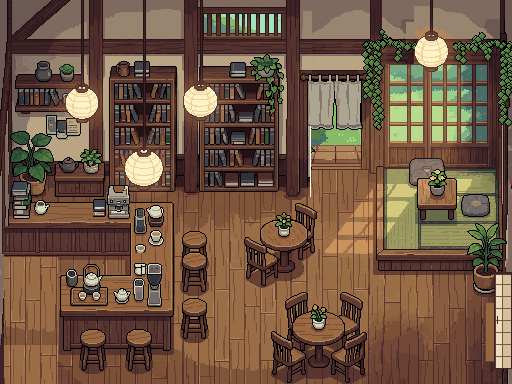
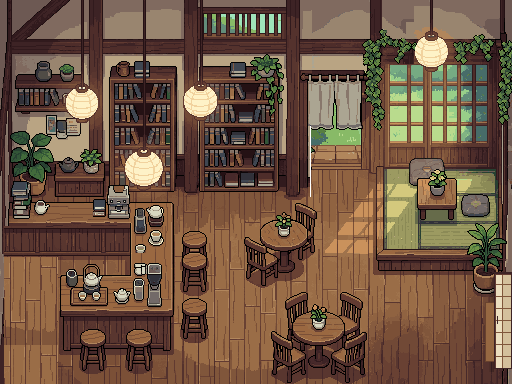
Hiedra redibujada con PixelLab sobre la ventana; noche ajustada
Inpaint guiado por la enredadera dibujada a mano. La capa de noche ya no
toca la hiedra y reconoce todos los cristales.

Claude-Session: https://claude.ai/code/session_013JaQUVzXM27QoDPQ52S5iX

Changed region(s): [[0.6875, 0.0938, 0.8125, 0.3438], [0.875, 0.0938, 1.0, 0.3438]]

diff --git a/src/scenes/LibraryScene.js b/src/scenes/LibraryScene.js
@@ -93,7 +93,7 @@ export class LibraryScene extends BaseScene {
     L.VENTANAS_NOCHE.forEach((v) => {
       cosas.push(
         this.add.image(OX + v.x, OY + v.y, 'brillo').setTint(0x8f6ad8).setBlendMode(ADD)
-          .setScale(v.escala).setAlpha(0.3).setDepth(9001),
+          .setScale(v.escala).setAlpha(0.14).setDepth(9001),
       );
     });
 

diff --git a/tools/make_night_overlay.py b/tools/make_night_overlay.py
@@ -28,6 +28,17 @@ def luz(c):
     return 0.3 * c[0] + 0.59 * c[1] + 0.11 * c[2]
 
 
+def cerca_de_contorno(px, x, y, radio=2):
+    for dy in range(-radio, radio + 1):
+        for dx in range(-radio, radio + 1):
+            try:
+                if max(px[x + dx, y + dy][:3]) < 16:
+                    return True
+            except IndexError:
+                pass
+    return False
+
+
 def main():
     random.seed(7)
     im = Image.open(ORIGEN).convert('RGBA')
@@ -40,9 +51,12 @@ def main():
             for x in range(x0, x1):
                 r, g, b, _ = px[x, y]
                 # Solo los cristales: el jardín es verde claro; los marcos y las plantas son más oscuros
-                if not (g > r + 15 and g > b + 10 and luz((r, g, b)) > 110):
+                if not (g > r + 15 and g >= b - 8 and luz((r, g, b)) > 80):
                     continue
-                t = min(1, max(0, (luz((r, g, b)) - 120) / 85))
+                # Las hojas de la hiedra tienen contorno negro: lo que está junto a uno no es cristal
+                if cerca_de_contorno(px, x, y):
+                    continue
+                t = min(1, max(0, (luz((r, g, b)) - 95) / 100))
                 c = mezcla(SILUETA, cielo, t)
                 if t > 0.6 and random.random() < 0.035:
                     c = random.choice([(255, 250, 230), (230, 225, 255), (255, 226, 170)])
